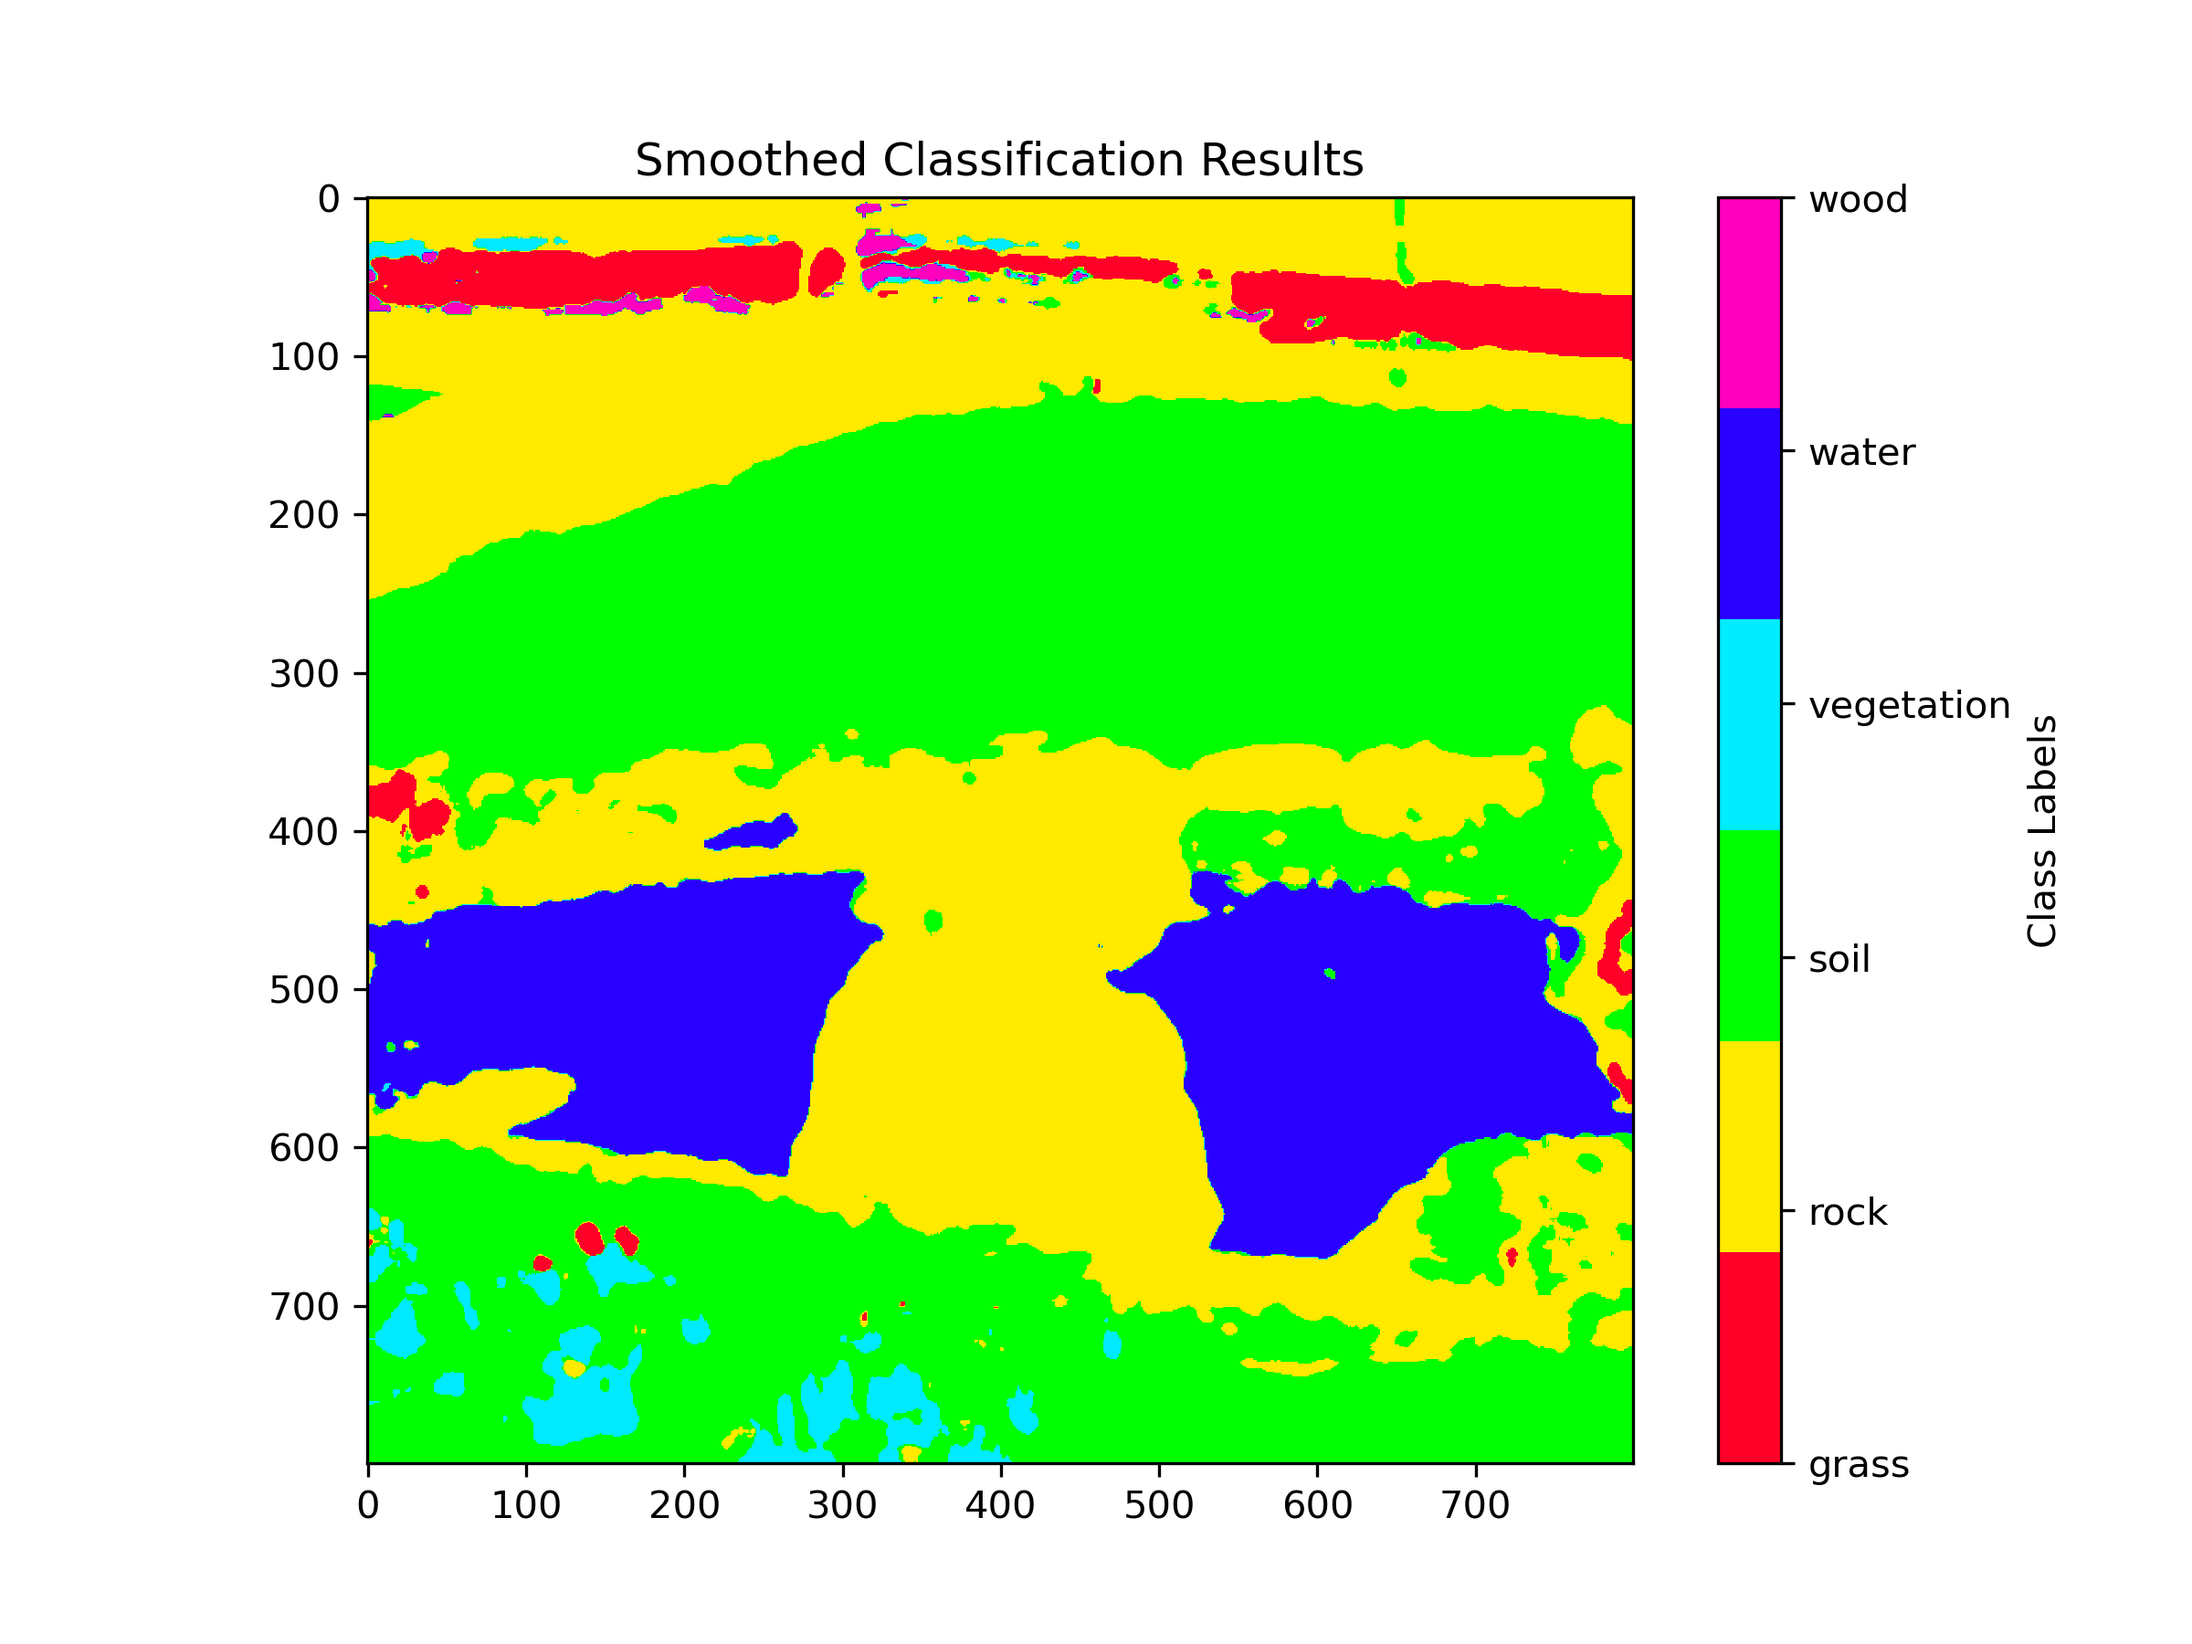
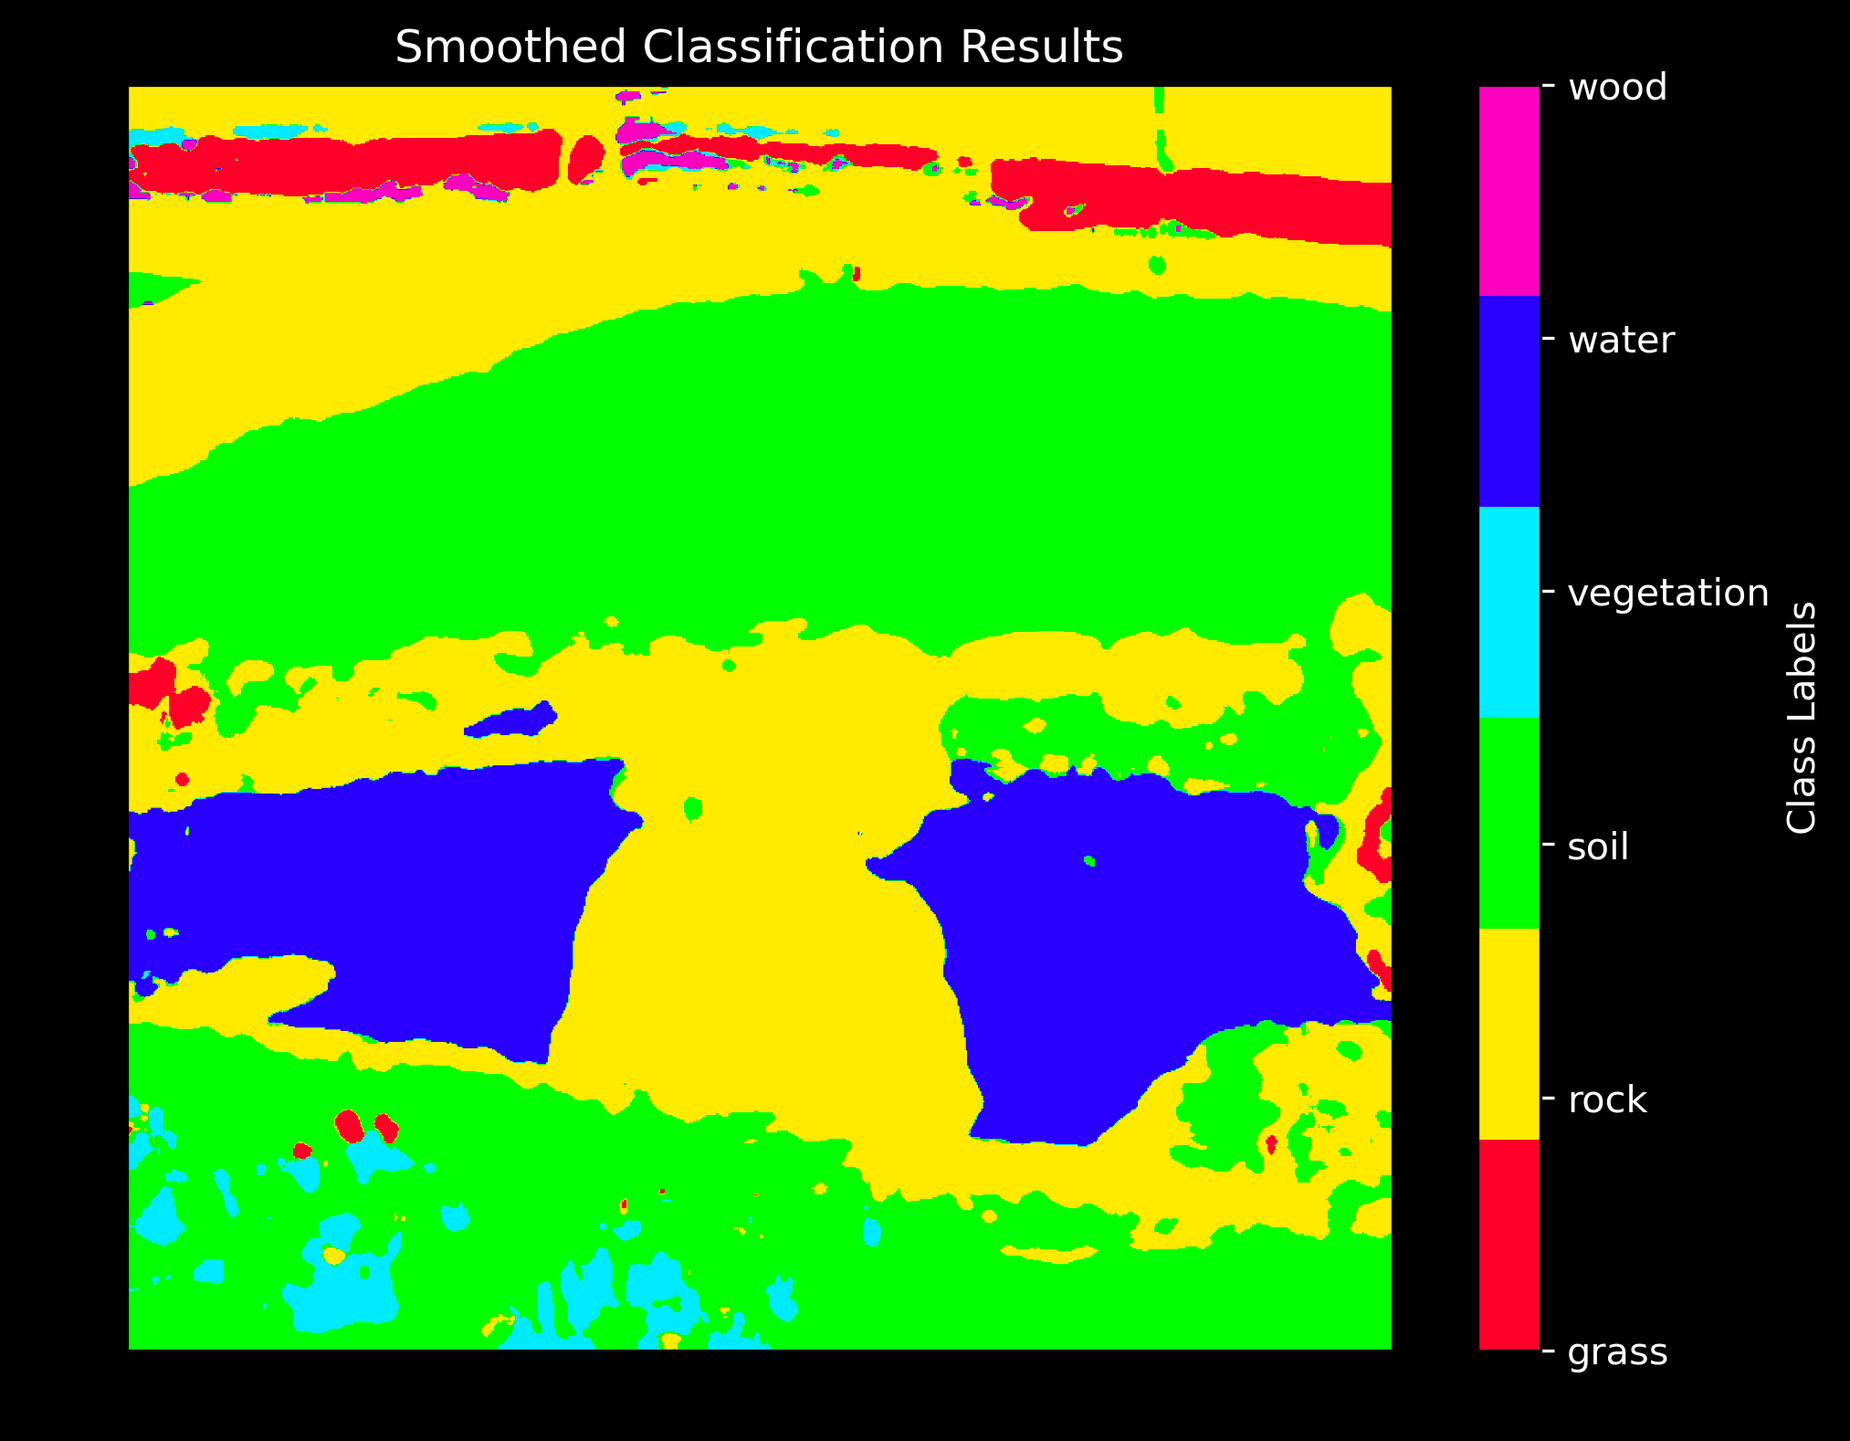
Black background png files

diff --git a/hyperspectral/classification.py b/hyperspectral/classification.py
@@ -78,11 +78,15 @@ def classify_and_save(
 
     # Saving the image
     output_path = output_name + "_ndvi.png"
-    plt.figure(figsize=(8, 6))
-    plt.imshow(ndvi, cmap="RdYlGn", vmin=-1, vmax=1)
-    plt.colorbar(label="NDVI")
-    plt.title("NDVI Across Entire Image")
-    plt.savefig(output_path, dpi=300)
+    plt.figure(figsize=(8, 6), facecolor="black")
+    ax = plt.gca()
+    ax.set_facecolor("black")
+    im = plt.imshow(ndvi, cmap="RdYlGn", vmin=-1, vmax=1)
+    cbar = plt.colorbar(im, label="NDVI")
+    cbar.ax.yaxis.label.set_color("white")
+    cbar.ax.tick_params(color="white", labelcolor="white")
+    plt.title("NDVI Across Entire Image", color="white")
+    plt.savefig(output_path, dpi=300, bbox_inches="tight", facecolor="black")
     plt.close()
     print(f"NDVI image saved as {output_path}")
 
@@ -109,23 +113,26 @@ def classify_and_save(
     }
 
     # Plot classification result
-    plt.figure(figsize=(8, 6))
+    plt.figure(figsize=(8, 6), facecolor="black")
+    ax = plt.gca()
+    ax.set_facecolor("black")
     img = plt.imshow(
         smoothed_image,
         cmap=custom_cmap,
         vmin=unique_classes[0],
         vmax=unique_classes[-1],
     )
-    plt.title("Smoothed Classification Results")
+    plt.title("Smoothed Classification Results", color="white")
 
     # Add colorbar legend
     cbar = plt.colorbar(img, ticks=list(legend_labels.keys()))
     cbar.set_ticklabels(list(legend_labels.values()))
-    cbar.set_label("Class Labels")
+    cbar.set_label("Class Labels", color="white")
+    cbar.ax.tick_params(color="white", labelcolor="white")
 
     # Save output image
     output_path = output_name + "_classification.png"
-    plt.savefig(output_path, dpi=300)
+    plt.savefig(output_path, dpi=300, bbox_inches="tight", facecolor="black")
     plt.close()
     print(f"Smoothed classification results saved to {output_path}")
 
